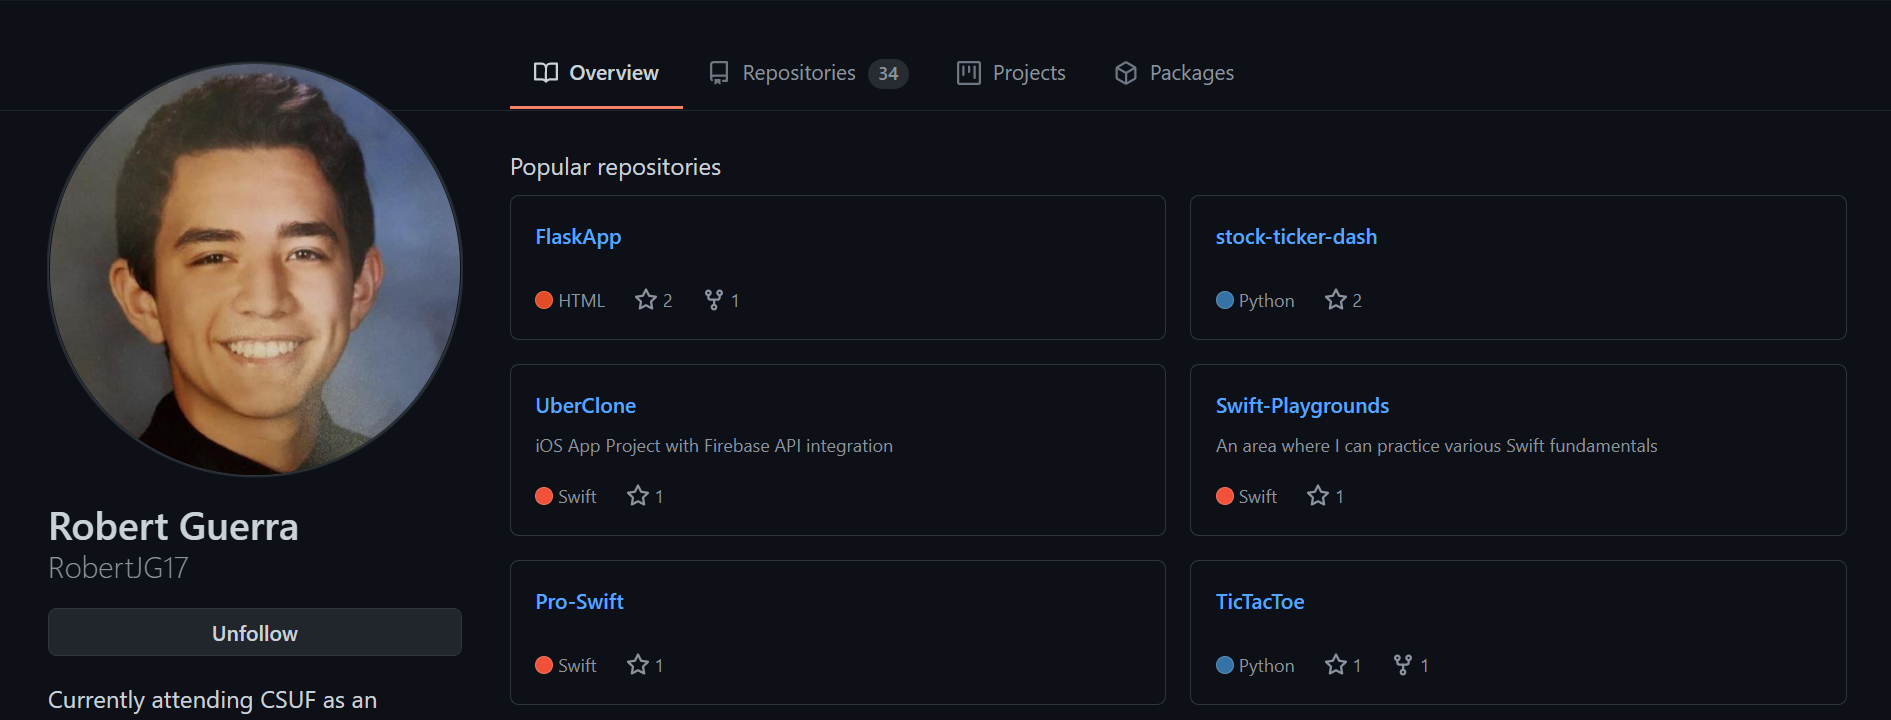
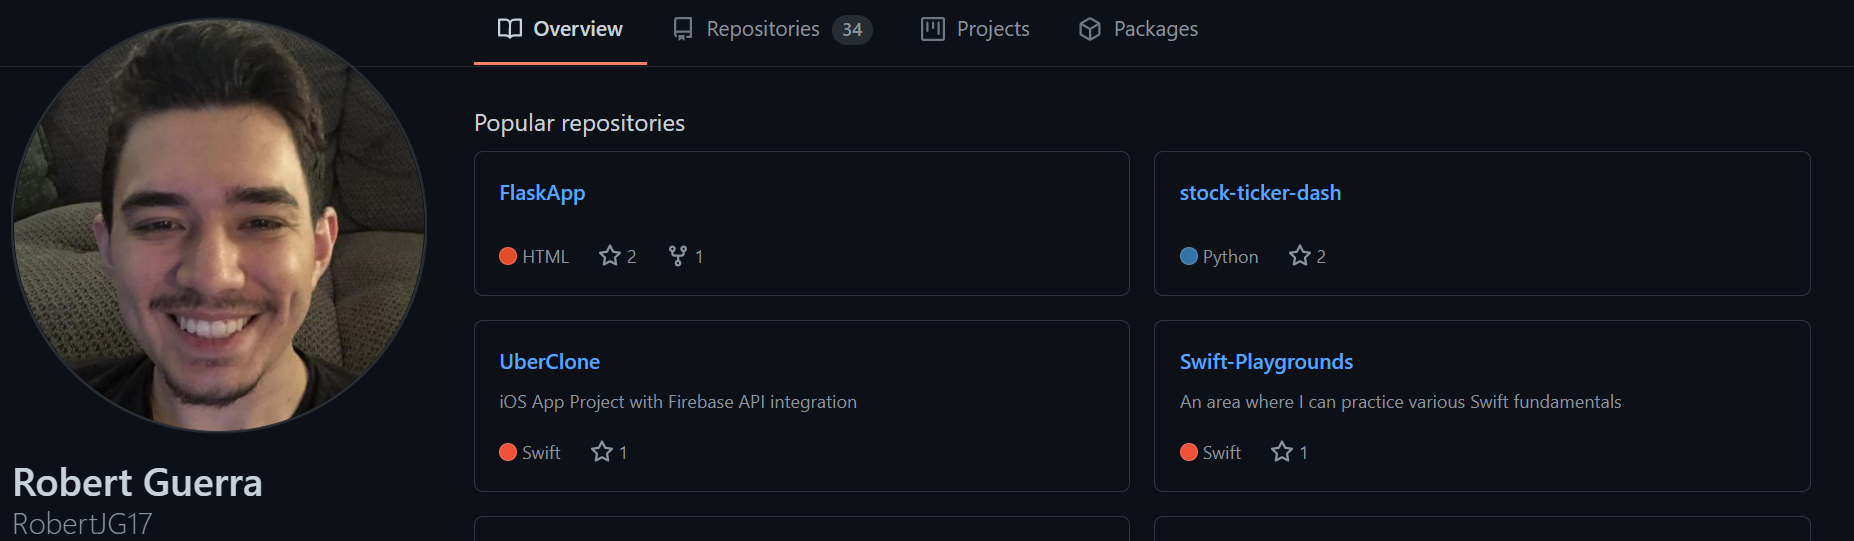
updated about page

diff --git a/apps/about.py b/apps/about.py
@@ -32,22 +32,9 @@ def about_section(*args):
                 dbc.Card(
                     [
                         dbc.CardImg(
-                            src="../assets/Bobby2_git.png", top=True, bottom=False,
+                            src="../assets/Bobby_git.png", top=True, bottom=False,
                             style={"position": "relative"}
                         ),
-
-                        # dbc.CardImg(
-                        #     src="../assets/chi_op.png", top=False, bottom=True,
-                        #     style={
-                        #         "background-image": 'url("../assets/chi_op.png")',
-                        #         "background-repeat": "no-repeat",
-                        #         "display": "block",
-                        #         "width": "99vw",
-                        #         "height": "25vh",
-                        #         "object-fit": "cover",
-                        #         "z-index": "0"
-                        #     },
-                        # ),
                         html.A(
                             dbc.CardBody(
                                 [
@@ -62,25 +49,6 @@ def about_section(*args):
                             href="https://github.com/RobertJG17",
                             target="blank"
                         ),
-                        # dbc.CardImgOverlay(
-                        #     children=[
-                        #         html.Img(
-                        #             src="../assets/chi_op.jpg",
-                        #             style={
-                        #                 "z-index": "0",
-                        #                 "position": "absolute",
-                        #                 "padding-bottom": "0px",
-                        #                 "padding-top":"67px",
-                        #                 "bottom":"-2px",
-                        #                 "left":"0px",
-                        #                 "width": "99vw",
-                        #                 "height": "30vh",
-                        #                 "object-fit": "cover",
-                        #                 "mix-blend-mode":"hard-light"
-                        #             }
-                        #         )
-                        #     ],
-                        # ),
                     ],
                     style={"background-color":"#fc4c49"}
                 ),

diff --git a/snippets/codeSnippets.py b/snippets/codeSnippets.py
@@ -159,3 +159,38 @@
 # result = flatten(lottery_data, '', {})
 # print("\n\nafter flatten...\n")
 # print(result)
+
+
+#   2 different options for inserting an image into a dbc card
+# dbc.CardImgOverlay(
+                        #     children=[
+                        #         html.Img(
+                        #             src="../assets/chi_op.jpg",
+                        #             style={
+                        #                 "z-index": "0",
+                        #                 "position": "absolute",
+                        #                 "padding-bottom": "0px",
+                        #                 "padding-top":"67px",
+                        #                 "bottom":"-2px",
+                        #                 "left":"0px",
+                        #                 "width": "99vw",
+                        #                 "height": "30vh",
+                        #                 "object-fit": "cover",
+                        #                 "mix-blend-mode":"hard-light"
+                        #             }
+                        #         )
+                        #     ],
+                        # ),
+
+# dbc.CardImg(
+                        #     src="../assets/chi_op.png", top=False, bottom=True,
+                        #     style={
+                        #         "background-image": 'url("../assets/chi_op.png")',
+                        #         "background-repeat": "no-repeat",
+                        #         "display": "block",
+                        #         "width": "99vw",
+                        #         "height": "25vh",
+                        #         "object-fit": "cover",
+                        #         "z-index": "0"
+                        #     },
+                        # ),
